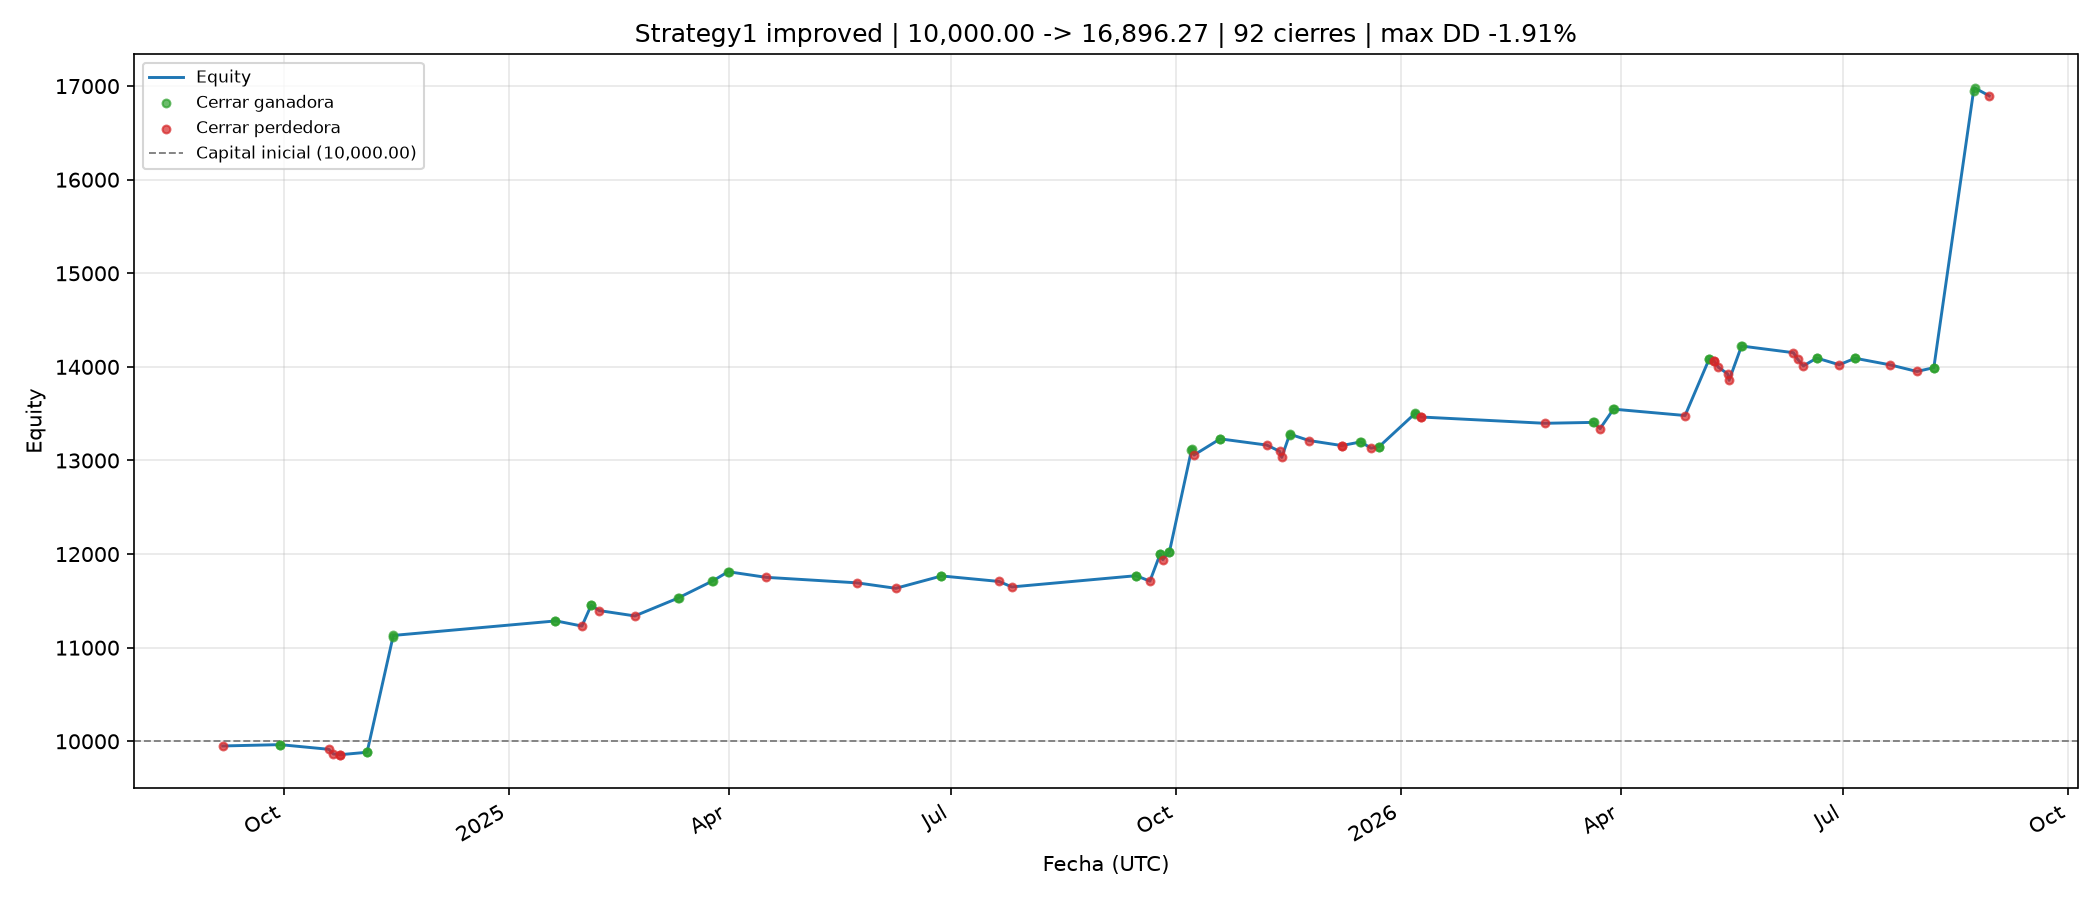
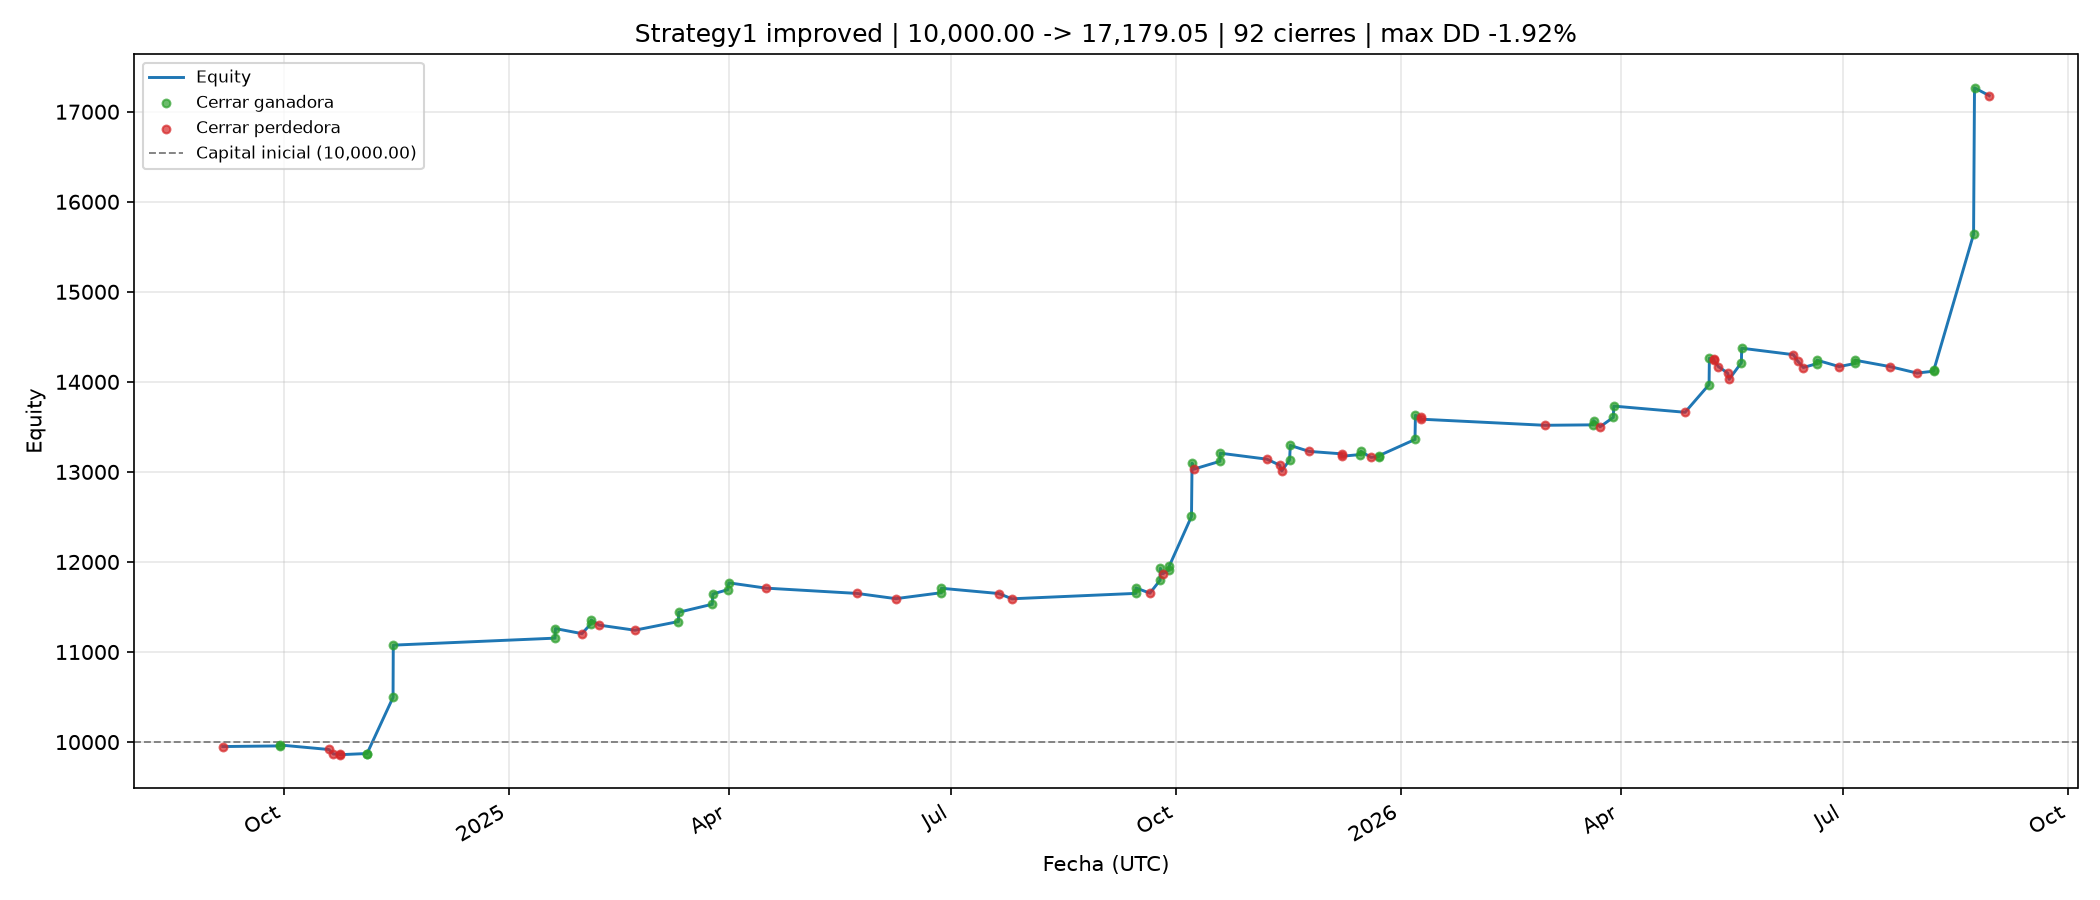
update

diff --git a/backend/services/backtest/bin/legacy/strategy/backtest_strategy1.py b/backend/services/backtest/bin/legacy/strategy/backtest_strategy1.py
@@ -72,7 +72,7 @@ class Config:
     adx_threshold: float = 23.0
     atr_len: int = 14
 
-    scale_out_fraction: float = 0.99
+    scale_out_fraction: float = 0.5
 
     initial_capital: float = 10_000.0
     commission_bps: float = 0.0
